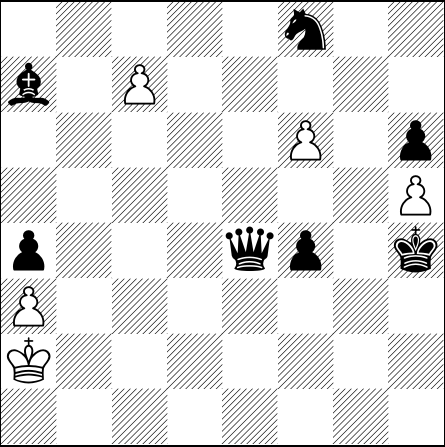
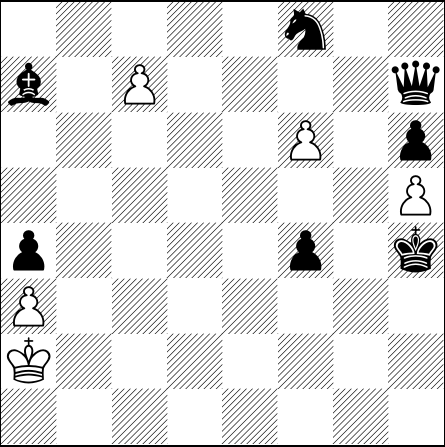
[automated] Regenerate text/pdf for chessboard

Changed region(s): [[0.8764, 0.1163, 0.9933, 0.2327], [0.4966, 0.4944, 0.6135, 0.6107]]

diff --git a/default_filepath.tex b/default_filepath.tex
@@ -13,6 +13,6 @@
 \normalsize%
 \setchessboard{showmover=false}%
 \newgame%
-\fenboard{5n2/b1P5/5P1p/7P/p3qp1k/P7/K7/8 b - - 1 95}%
+\fenboard{5n2/b1P4q/5P1p/7P/p4p1k/P7/K7/8 w - - 2 96}%
 \chessboard%
 \end{document}
